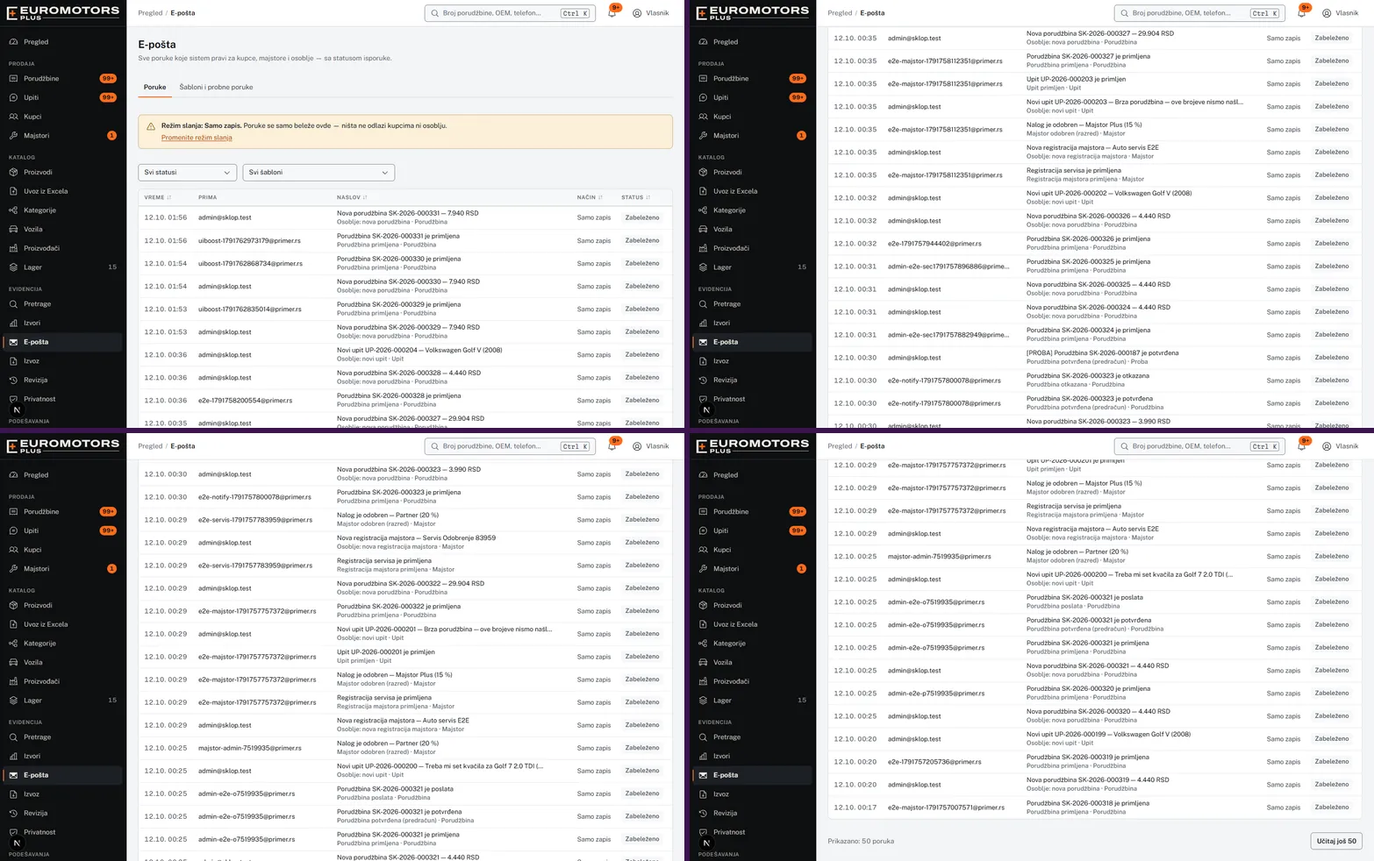
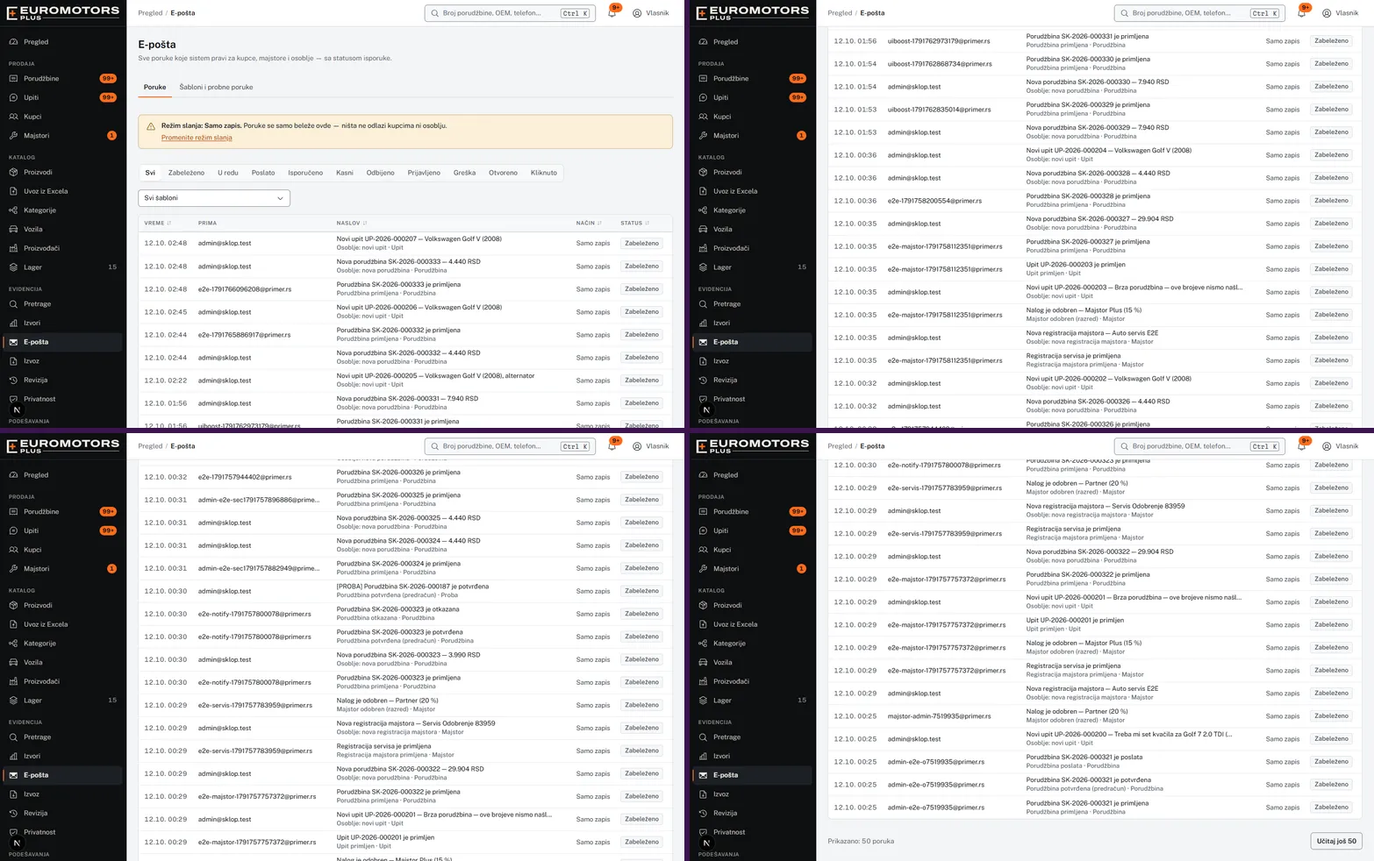
ui(27): admin on the new system; final verification, performance comparison, docs
Admin: graded waiting time, status chip as the in-row control, 48 px rows, totals in list
footers, real 36 px fields, sentence-case chips. Docs: UI-BOOST section 11 and the re-measure,
DESIGN-SYSTEM notes per template, decisions D332-D349, owner items (HUMAN-TODO 17), PROGRESS.
Tools: sheets, checkout-walk, overlays, montage, lh-compare. Screenshots before / after.

diff --git a/docs/design/UI-BOOST.md b/docs/design/UI-BOOST.md
@@ -4,7 +4,7 @@
 > Step 26 (2026-10-11) built **the system**: tokens, shared components, the shell and the site-wide reveal. Step 27 applies it to every page — its work list is §7 and §8.
 > The owner asked for a site that feels much more modern, polished and premium („brutalno“ = outstanding, not the brutalist style), with three fixed requirements: small soft corners on every box, staggered reveals on scroll, a modern look that stays „Rendgen“.
 
-**Contents** — 1 How the critique was run · 2 Scores · 3 Problems · 4 Target · 5 What step 26 changed · 6 Components: done and open · 7 Templates: the work list for step 27 · 8 How to apply the system · 9 Performance: measured, fixed, open · 10 How to check
+**Contents** — 1 How the critique was run · 2 Scores · 3 Problems · 4 Target · 5 What step 26 changed · 6 Components: done and open · 7 Templates: the work list for step 27 · 8 How to apply the system · 9 Performance: measured, fixed, open · 10 How to check · 11 What step 27 built, per template
 
 ---
 
@@ -151,7 +151,7 @@ One engine (`components/TextRevealGlobal.tsx`), one observer, one line.
 
 ## 7. Templates: the work list for step 27, by impact
 
-> **Status after step 27 (2026-10-12): all ten items done** — what was built per template is in §11; decisions D332–D350.
+> **Status after step 27 (2026-10-12): all ten items done** — what was built per template is in §11; decisions D332–D349.
 
 1. **Product (`/deo/[slug]`)** — phone: price, stock and the add-to-cart row above the codes; cap the image height; the buy bar visible until the inline button is on screen. Desktop: a real buy box (`panel-raised`: price, stock, stepper, primary, inquiry), sticky, which also removes the dead column. Gallery and drawing frames 10 px. Reveal: gallery and buy box eager, everything below as blocks and groups.
 2. **Product card and the grids that use it** — render at about 70 % of its frame; phone list card with an 88 px thumbnail, about 170 px tall, price and action on one row; two name lines reserved so rows align. Every grid of category tiles, car models and brands becomes a `RevealGroup`.
@@ -205,6 +205,17 @@ After the fixes the trace shows no pass above 330 elements, and style, layout, p
 
 **Open.** The category page's TBT median is still 298 ms (runs 149–350 ms) against 135 ms in the control (runs 21–153 ms) and a 150 ms budget; home is 194 ms against 112 ms. In the traces what remains is not new work but where it falls: the layout of the streamed chunks (120–190 ms each, as before) lands just after first paint more often than before it. **Step 27, first thing, on an idle machine:** re-run the gate on home, category and product with five runs; if the category is still over 150 ms, compare a trace of it with the control (`git stash`-free: build `0df64d0` in place, as this step did) and look at the first paint — the eager cards and the action bar paint in the first chunk now, which may be what moved FCP ahead of the second layout task.
 
+**Step 27 re-measure (2026-10-12).** The machine was shared again, so the two builds were measured against each other instead of against the clock: the step-26 build served from a side directory on port 3200, the step-27 build on 3100, one Lighthouse run each in turn, five rounds (`scripts/qa/ui-boost/lh-compare.mjs`; mobile, applied throttling, medians):
+
+| Build | Home | Category | Product |
+|---|---|---|---|
+| Step 26 (old) | perf 90 · TBT 194 ms · LCP 2601 ms · JS 303 KB | perf 93 · TBT 161 ms · LCP 2285 ms · JS 295 KB | perf 94 · TBT 40 ms · LCP 2343 ms · JS 284 KB |
+| **Step 27 (new)** | **perf 91 · TBT 179 ms · LCP 2505 ms · JS 311 KB** | **perf 92 · TBT 169 ms · LCP 2229 ms · JS 296 KB** | **perf 96 · TBT 47 ms · LCP 2230 ms · JS 284 KB** |
+
+A second comparison on the final build, with the workers finished and the machine quieter (five rounds again): home 93 / TBT 150 ms old against 93 / 186 ms new; category 96 / TBT 42 ms (runs 21–216) old against 92 / 165 ms (runs 81–436) new; product 96 / 51 ms old against 96 / 53 ms new. One traced run per build of the category page (`lh-trace.mjs`) shows the same work on both — style 256 ms old against 225 ms new, layout 478 against 425 ms, script 1629 against 1535 ms, TBT 144 against 139 ms.
+
+Read: step 27 changed nothing measurable in the work the three templates do (first comparison: differences inside the spread of the runs — category TBT runs 126–538 ms old, 91–225 ms new). In the second comparison the category page's median TBT is higher on the new build while the trace totals are equal: as in step 26, what moves is which layout task falls after first paint. It stays open. The home page carries 8 KB more first-load JS for the four product cards of „Izdvojeno sa stanja“. The category page's TBT is about 160–170 ms on both builds — the 298 ms recorded in step 26 was load on the machine, not the page; it is still above the 150 ms budget and the pre-step-26 control (135 ms) can no longer be rebuilt next to it. Accessibility, best practices and SEO are 100 on all three in every run. LCP reads above the 2.0 s lab budget on this loaded machine for both builds alike.
+
 **The lesson, as a rule** (also in `.claude/rules/architecture.md`): never let the whole document depend on one thing — no `:root:has(…)`, no rule with a universal subject (`> *`, `*`) that hangs on a class of `<html>`, no custom property written on the root after first paint.
 
 ## 10. How to check
@@ -218,3 +229,43 @@ npx playwright test tests/e2e/reveal.spec.ts                          # the reve
 ```
 
 Page set, viewports and sign-ins are in `scripts/qa/ui-boost/kit.mjs`. Screenshots: `docs/qa/screens/step-26/before/` and `after/`; the reveal lab is `/styleguide/otkrivanje`.
+
+Added in step 27:
+
+```
+node scripts/qa/ui-boost/sheets.mjs <outDir> [--only=…] [--max=18] [--widths=390,1440]   # contact sheets of viewport tiles: readable, unlike a scaled full page
+node scripts/qa/ui-boost/checkout-walk.mjs <outDir>                                        # every delivery × payment, thank-you, order status
+node scripts/qa/ui-boost/overlays.mjs <outDir>                                             # search dialog, vehicle picker, cart drawer, mobile menu, offline notice
+node scripts/qa/ui-boost/montage.mjs <out.webp> <files…>                                   # several captures side by side
+MSYS_NO_PATHCONV=1 node scripts/qa/ui-boost/lh-compare.mjs --rounds=5 / /delovi/…          # old build (3200) against new (3100), interleaved
+```
+
+`kit.mjs` now covers 80 pages (every storefront, portal, account and admin template; `firstLink` opens the first record of a storefront list). Screenshots of step 27: `docs/qa/screens/step-27/` — `before/` and `after/` (storefront core), `checkout/`, `overlays/`, and per worker `admin-*`, `portal-*`, `content-*`.
+
+## 11. What step 27 built, per template
+
+Decisions D332–D349. The step ran as one orchestrating session and four workers on disjoint folders (D332).
+
+| Template | What changed | Decision |
+|---|---|---|
+| Home | Phone hero keeps the car on the first screen (field and submit on one row); featured parts in stock; systems as nine panels with chips instead of a 44-link list; tiers in a raised panel; make tiles; every grid and list a reveal group | D334–D336 |
+| Product card and grids | Three rows of one grid; render at full frame height; phone card 88 px thumbnail with price and action on one row (≈ 190 px, was 250); two name lines reserved; category tiles, `/delovi`, system hubs and vehicle hubs as reveal groups | D333 |
+| Category and search | Phone: clamped lead, one sticky toolbar with the count, first product at y ≈ 355 (was 470); rail as a panel with readable group titles; link clouds as chips; left-aligned empty states with the category render; search zero results end in the VIN inquiry plus two ways on; the search dialog says when the vehicle narrows results | D337, D338, D340, D342 |
+| Product | One order for every width; raised sticky buy box; phone first screen shows name, OEM, fitment, price and stock; buy bar docked whenever the inline button is not in view; codes and specifications as panels | D339 |
+| Cart and checkout | Lines in one panel, raised sticky summary, no doubled subtotal on phones, real skeleton geometry; checkout step as one panel, full-width primary on phones; all four delivery × payment combinations walked; order status and thank-you in one panel language | D341 |
+| VIN inquiry | Three panels; VIN help beside the field (under it on phones); live decode readout; status page with the quote as one panel | D346 |
+| Mechanics portal, account, auth | Four tabs + „Još“, sign-out out of the tab row; one panel language; quick-order rows as system rows; two-column account; split auth with a 12 px form panel | D347 |
+| Content, vehicle hubs, 404 / 500 | Reading measure with a sticky aside; two-column contact that hides empty blocks; tile grids without a lone last card; one composition for every status page | D346 |
+| Admin | See D348 | D348 |
+| E-mails | Blocks rebuilt on the new shapes (notice, button, wells, two-line items, ledger, footer), dark-mode safe; all 25 templates inherit | D344 |
+| 3D explorer UI | Panel rows as wells with a labelled button; callout entrance; stage controls with one outline; parts list with renders | D345 |
+
+**Left open after step 27**
+- Category TBT is about 160–170 ms against a 150 ms budget (§9); first-load JS is still above its budget (pre-existing).
+- A product grid can still end in a lone card (9 items in 4 columns); pagination pages of 24 do not.
+- Instant search suggestions are not filtered by the chosen vehicle (D340); the results page is.
+- `cn` joins class lists without merging: a component's own classes cannot be overridden by a caller's conflicting utility (D338). Worth a decision before the next large UI change.
+- Shared components the workers asked for and did not get: `Menu` items as route links with a current state; `Button size="sm"` at 44 px on touch screens by default; a 12 px panel utility (`panel rounded-xl` works today by stylesheet order); a taller drag handle on `Sheet`.
+- Blocks that are eager because they are on the first screen at 1440 px do not scroll-reveal on phones (portal tiles, price-list panels, order status panels).
+- States not seen in a browser: mechanic status screens „pending“ / „rejected“ / „suspended“, `app/error.tsx` and `global-error.tsx` (styled from the code).
+- The text-reveal skill files still describe the old trigger (unchanged from step 26: `.agents/` is off limits).

diff --git a/docs/design/DESIGN-SYSTEM.md b/docs/design/DESIGN-SYSTEM.md
@@ -133,6 +133,8 @@ Geometry, lettering and the reasons are in D301–D306 and `scripts/brand/logo/l
 - `alt="Euromotors Plus by OEM Parts"`, styled (Arial Black 18 px, ink) so it stands in for the logo when images are blocked. The image links home.
 - The file is served by the site, so e-mails show it once `SITE_URL` is the real domain.
 
+Body blocks (step 27, D344 — `lib/email/html.ts`, inherited by all 25 templates): notice = an 8 px tinted box with a 1 px hairline of its tone (no stripe); button 6 px, a padded table cell, full width and 48 px tall on phones; item rows on two lines (name, then maker · code in mono; line total over „2 × 6.490 RSD“); `well()` — an 8 px inset box for payment data; `ledger()` — title, code in mono, state as a word on the right; document numbers (SK-…, UP-…) in mono and never broken; footer on a tinted ground in two stacking columns. One dark rule list serves `prefers-color-scheme` and Outlook.com; the logo band stays white. All 33 text / ground pairs are ≥ 4.5 : 1.
+
 ### 2.7 OG image frame (1200 × 630)
 
 ```
@@ -823,6 +825,7 @@ Inline (default) or chip (`*-subtle` bg, 24 px, radius 4) — icon + word + opti
 ### 9.10 Part panel (3D) — drawer / sheet
 Desktop: right drawer 440 px (1280+: 480 px), no scrim (the car stays interactive), level 4 shadow, full height under the header. Mobile: bottom sheet (peek 42 % / full 92 %).
 Anatomy: header (part glyph 24 + `display-m` category name + count „48 artikala“ + close `X` 44) → vehicle row (selected vehicle chip or „Izaberite vozilo za tačno poklapanje“) → list of compact product rows (thumb 56, maker, name 1 line, OEM `code`, stock icon + word, price, add icon button 44) → footer (sticky): „Svi delovi: Kočioni diskovi (48) →“ (link, full width) + „Pošaljite upit“ (secondary).
+As built in step 27 (D345): rows are wells (`panel-inset`) with the storefront thumbnail, maker · quality, name, mono OEM, stock, fitment, price and a labelled 44 px `quiet` button („U korpu“ / „Poruči“; „Pošaljite upit“ when the part cannot be ordered) — the icon-only button is gone; a 25 rem container query puts price over button in a third column in the wide drawer and under the facts on phones; the header counts „9 artikala · 7 na stanju“; the vehicle chip is a filled field-like chip. The callout box has the overlay shadow and a GSAP entrance (dot lands, leader draws, box settles 6 px) on inner elements, while the canvas positions the outer ones.
 States: loading (6 skeleton rows), empty („Za ovu kategoriju trenutno nemamo delove na stanju.“ + inquiry CTA prefilled with the category), error (retry), vehicle mismatch notice (`warning` row „3 artikla ne odgovaraju izabranom vozilu — prikazani su na kraju“). Esc/close returns focus to the part list trigger or the canvas wrapper and the camera returns.
 
 ### 9.11 Cart drawer
@@ -840,8 +843,10 @@ Radix Dialog: 480/640 px, `surface-3`, radius 12, level 4 (bottom sheets: 14 px 
 ### 9.15 Admin data table (paper)
 Toolbar: segmented status filter (tabs with counts, `nowrap`, horizontally scrollable on narrow widths), search (260 px, `/` shortcut), filter popover, column visibility, density toggle, export („Izvoz za Excel“ — CSV with BOM and `;`). Table: header 36 px `surface-2` caps labels 11 px, sticky; rows 48 px (compact 36), 1 px `line-faint` dividers, no zebra; hover `surface-2`; selected = neutral `selected #EEF1F4` + checked checkbox (never the accent tint, which marks „Nova“); numbers right-aligned tabular; order numbers `code` 12.5 px **400** with the prefix `SK-2026-` in `ink-3` and the sequence in `ink-1` (round 1: the number outweighed the customer); dates compact „29.09. 11:42“ (year shown when it is not the current year); „Plaćanje · dostava“ as one two-line column; status chips (§3.6) with icon and compact labels („Za preuzimanje“); a 32 px row-actions button (`DotsThree`, „Radnje za SK-2026-000187“: Štampaj predračun, Otpremnica, Otvori); first column (checkbox + number) sticky when scrolling horizontally. Cells use 8 px side padding; „Izvor“ shows at ≥ 1440 px (the order detail always shows attribution); the row-actions column is sticky on the right; between 1024 and 1365 px the sidebar collapses to a 64 px icon rail (labels visually hidden, counts as small badges). With these rules the orders list fits 1280, 1366 and 1440 px without horizontal scrolling (measured: 0 px overflow in `/lab/koncept`, round 4); below 1024 the table scrolls inside its wrapper and the workspace column is `minmax(0, 1fr)` so nothing is clipped. Dark sidebar keeps the night focus ring (`accent`, 6.74:1); the paper workspace uses `accent-text`. Keyboard: ↑/↓ move row focus, Enter opens, Space selects, Shift+click range. Bulk bar replaces the toolbar when rows are selected („3 izabrane · Potvrdi · Štampaj otpremnice · Poništi izbor“). Footer: „1–25 od 187“ + pagination. States: loading (skeleton rows keep column widths), empty per filter („Nema novih porudžbina.“), error banner with retry, stale data notice when a live update arrives while editing. Width budget (D271): the table is `w-full` with auto layout inside an `@container`, so wrapping cells fold before anything scrolls; each list keeps a budget — caps on long cells with the full value in `title`, breakpoint defaults for optional columns that the column chooser can override (e.g. „Proizvođač“ from 1536 px), container-query folding (stock badge over quantity under 72 rem); edge-scroll hints sit at the seam of the sticky columns. Selection (D272): toolbar and bulk bar share one 48 px slot, so selecting never moves rows; a row click within 300 ms of a checkbox change does not open the record; a `role="status"` region reads „Izabrano: N“ / „Izbor poništen“.
 
+**Step 27 (D348).** Rows are 48 px on every list at 1280 and 1440 px: flags are 20 px `dense` chips, the stock badge sits beside the quantity, long payment cells truncate with a tooltip. Chips are sentence case, 13 px (`Chip` in `components/admin/ui.tsx`); neutral chips carry a hairline edge on paper. On orders the status chip is the in-row control: it opens the menu of legal next steps, each confirmed (cancel asks for the reason; „Označi kao poslato…“ opens the order for the tracking number); the same steps stay in the row menu and the chip is not a tab stop. Footer: „Prikazano: 50 od 246 porudžbina“ where a total exists (`LoadMoreFooter`). Filter and inline fields are `CompactInput` (36 px). Status filters are the segmented track on every list. Waiting time (dashboard queue, inquiries) has four grades — u roku · rok ističe · kasni · dugo kasni (3× the target) — shown by an icon and a word; the time itself is neutral ink (`components/admin/waiting.tsx`).
+
 ### 9.16 Tabs
-Underline tabs (storefront product page: Opis, Kompatibilnost, Brojevi, Isporuka): 44 px, 15 px 500 `ink-2`, active `ink-1` + 2 px accent underline; overflow scrolls horizontally with edge fade. Segmented tabs (admin filters) as §9.15. Radix Tabs, arrow-key navigation, `aria-controls`.
+Underline tabs (storefront product page: Opis, Kompatibilnost, Brojevi, Isporuka): 44 px, 15 px 500 `ink-2`, active `ink-1` + 2 px accent underline; overflow scrolls horizontally with edge fade. Section navigation of the portal and the account (step 27, D347, `components/account/SectionNav.tsx`): four links for the daily tasks plus a „Još“ menu for the rest and for „Odjavi se“; the fade shows only on the side that can scroll; the page H1 names the open view. Segmented tabs (admin filters) as §9.15. Radix Tabs, arrow-key navigation, `aria-controls`.
 
 ### 9.17 Pagination
 Storefront: „Prethodna“ / „Sledeća“ buttons + page numbers (1 … 4 5 **6** 7 … 12), current page `accent` underline, 44 px targets; `?strana=n` links (crawlable). Mobile: prev/next + „Strana 6 od 12“. Admin: compact with page size select (25/50/100).
@@ -967,6 +972,8 @@ Step 27 (D341): cart and checkout are capped at 76 rem. Cart: every line in one 
  Aside (4 cols): „Gde je broj šasije?“ — drawing of the windscreen corner + registration document field E, no photos
 ```
 
+As built in step 27 (D346): three panels — Vozilo, Šta vam treba?, Kontakt — each a reveal block; „Gde je broj šasije?“ is the aside beside the Vozilo group from 1024 px and a disclosure directly under the VIN field on phones; a live „Prepoznato iz broja šasije“ readout; the dropzone is the only dashed border; the aside adds „Šta dalje“ (three steps). The thank-you page and the status page are records (sans H1, status chip, the quote as one panel with one primary).
+
 ### 10.8 `/za-majstore`
 ```
  Hero split: ZA MAJSTORE (display-xl) + lead + [Registrujte servis] │ price comparison card: MP vs „Vaša cena“ per tier
@@ -982,6 +989,8 @@ Step 27 (D341): cart and checkout are capped at 76 rem. Cart: every line in one 
    [Dodaj sve u korpu]
  Tiles as links (not metric cards): Porudžbine (last 5 rows) · Omiljeno · Vozila mušterija (VIN, tablice) · Cenovnik (XLSX)
 ```
+
+As built in step 27 (D347): a sticky quick-order panel on the left; on the right the terms panel (the level in orange, the rabat as a numeral, credit as facts), the last orders as rows with a `quiet` „Poruči ponovo“, then link tiles. The format reference of the quick order is behind „Kako se upisuje“; parsed rows are system rows in one panel (line number, mono code, one status chip, article with stock, price, stepper, labelled „Ukloni“).
 
 ### 10.10 Admin shell and dashboard `/admin`
 ```

diff --git a/docs/DECISIONS.md b/docs/DECISIONS.md
@@ -436,3 +436,5 @@ Guest cart token in localStorage (strictly necessary) · vehicle filter carried 
 | 2026-10-12 | 27 | D345 — **3D explorer UI: panel rows are wells with a labelled button; the callout has an entrance (worker: 3D UI).** `PartPanel`: rows are `panel-inset` with the storefront thumbnail, maker · quality, name, mono OEM, stock, fitment, price and a labelled 44 px `quiet` button (was icon-only); layout by a 25 rem container query; skeleton rows measure the same as loaded rows; the header counts „9 artikala · 7 na stanju“; empty and error states end in the inquiry. `HeroCallout`: overlay shadow, GSAP entrance (dot, leader, box settles 6 px) on inner elements while the canvas positions outer ones. `StageStrip`: „Rasklopi“ is the one outline, „Lista delova“ is `quiet`. `PartsListDialog`: rows with the category render and sticky system headings. Framing, poster and canvas code untouched. | Brief item 11. Wells because `quiet` has the fill of the surface-3 drawer; outer / inner layers because a tween on the element the canvas moves would fight over `transform`; no row stagger because the axe test scans as soon as the first row shows. | Reusing the storefront `AddToCartButton` in the panel: different toast, live region and test id. |
 | 2026-10-12 | 27 | D346 — **Inquiry and content pages (worker: content).** `/upit`: three panels (Vozilo, Šta vam treba?, Kontakt); the VIN help is rendered twice — the aside from 1024 px and a disclosure under the field on phones; a live „Prepoznato iz broja šasije“ readout; the dropzone is the only dashed border. Inquiry status: the quote is one panel with one primary; an inquiry closed without a quote says so. Content pages render through `ContentBody` (68ch measure, lead, tables as fading panels) with a sticky aside (next step, document list); places get display caps, documents a sans H1. `/kontakt` is two columns that hide what settings leave empty. Vehicle hubs are tile grids without a lone last card. 404 / 403 / 401 / error / unsubscribe share one composition (frame, mono code, sentence, next steps as rows). | UI-BOOST §7 items 6, 9, 10. The status boundaries are kept lean because Next serialises them into every page's payload. | One VIN help node moved by CSS: it cannot be both beside the panel and under the field. |
 | 2026-10-12 | 27 | D347 — **Portal, account and auth (worker: portal).** Portal and account chrome: four tabs as links plus a „Još“ menu, an edge fade on the side that scrolls, and „Odjavi se“ out of the tab row (in „Još“ and on the profile pages). The H1 names the open view („Brza porudžbina“, „Porudžbina SK-…“) because half the views sit behind „Još“. `/majstor`: sticky quick-order panel, the terms panel (the level in orange, rabat as a numeral, credit as facts), last orders as rows with a `quiet` „Poruči ponovo“, link tiles. Quick order: the dashed explainer is behind „Kako se upisuje“; parsed rows are system rows in one panel, sized by the panel's own width (container queries). Account: full-width two-column pages (a 960 px cap was tried and looked half empty at 1440 px). Auth: a split with the form in a 12 px panel, a „Prikaži“ / „Sakrij“ password toggle (a word, not an eye) and a Caps Lock note. `/za-majstore`: split hero with the tier comparison raised, numbered approval steps. | UI-BOOST §3 no. 9 and 11, §7.7. Primary tabs are the daily tasks; the menu items navigate with `router.push` because the shared `Menu` renders `href` items as plain anchors. | Keeping eight tabs with a fade: the critique's cognitive-load finding (8 + 1 choices). Distinct accessible names use `aria-label`, not hidden text copies, so strict text locators in the specs keep one match. |
+| 2026-10-12 | 27 | D348 — **Admin (worker: admin): graded waiting time, the status chip as the in-row control, one row height, real 36 px fields.** Dashboard: waiting time in four grades — „u roku“, „rok ističe“, „kasni“, „dugo kasni“ (from 3× the target) — carried by an icon and a word while the time stays neutral ink, with a legend line of counts; KPI cells link to their filtered lists. Lists: on orders the status chip opens the menu of legal next steps (each confirmed; the same steps stay in „…“; it is not a tab stop), products gained Aktiviraj / Deaktiviraj; every list row is 48 px at 1280 and 1440 px with flags as 20 px chips; the footer reads „Prikazano: 50 od 246 porudžbina“ where the backend returns a total. Chips are sentence case, 13 px. `CompactInput` is a real 36 px field: about 40 `<Input className="h-9">` had measured 44 px because `cn` joins classes and the input's own height won. Nine hand-written link-button strings became `Button asChild`. Fixed on the way: `ContactActions` built Viber / WhatsApp links with `/s/g` and `/D/g` (lost backslashes), category move buttons were hover-only on touch, the drawer close button sat in the flow. No entrance was written; admin blocks stay on the lite fade and are not eager. | UI-BOOST §3 no. 12, §6, §7.8: ten identical red timers, the status change hidden behind „…“, row heights that jumped with flags, „Prikazano: 50“ without a total, chips that shouted. | An inline „Potvrdi“ button per row: broke the width budget at 1366 px. Three grades only: a queue that is all late was ten identical marks again. Totals for products, customers, stock movements, audit, e-mails and notifications need new Convex counts — left open. |
+| 2026-10-12 | 27 | D349 — **Performance is compared build against build, interleaved, not against yesterday's numbers.** The step-26 build was kept, served from a side directory on port 3200, and measured in turn with the step-27 build on 3100 (`scripts/qa/ui-boost/lh-compare.mjs`, five rounds, twice). Home 91 / 93 (old 90 / 93), category 92 / 92 (old 93 / 96), product 96 / 96 (old 94 / 96); category TBT 169 and 165 ms against 161 and 42 ms for the old build, with runs from 81 to 436 ms. One traced run per build shows the same work (style 225 against 256 ms, layout 425 against 478 ms, script 1535 against 1629 ms): what differs between runs is which layout task falls after first paint. | The PC is shared with another project's pipeline; step 26 recorded a category TBT of 298 ms that was load, and a number taken at another hour cannot be compared. | Waiting for an idle machine: not available in an unattended run. The category page stays listed as open against its 150 ms budget. |

diff --git a/docs/PROGRESS.md b/docs/PROGRESS.md
@@ -241,3 +241,10 @@
 - Performance (Lighthouse mobile, applied throttling, medians; control = the pre-step commit built on the same machine): home 92 / TBT 194 ms (control 95 / 112), category 91 / TBT 298 ms (control 96 / 135), product 94 / TBT 108 ms (control 96 / 23); accessibility, best practices and SEO 100; CLS ≤ 0.001. Four causes of full-document style passes were found with a trace and removed (D328–D330); details in UI-BOOST §9. Measured before the last change (D331, admin-only CSS).
 - Found and fixed on the way: 87 px horizontal overflow in the admin SEO fields at 390 px; the admin save bar moved with its rising panel, which made `admin.spec.ts` › save settings fail one run in three (D331: the admin tone no longer moves anything).
 - Remains: **category TBT is above its 150 ms budget and above the control** — first task of step 27, on an idle machine (UI-BOOST §9); page templates and reveal marks per page (UI-BOOST §7–§8); the text-reveal skill files (`.claude/skills/text-reveal/SKILL.md` and the copy under `.agents/`) still describe the old trigger; owner items in `docs/HUMAN-TODO.md` §16. A manual e2e build needs `NEXT_PUBLIC_TEST_HOOKS=1` and `REVALIDATE_SECRET` (as `playwright.config.ts` sets them), otherwise the 3D hero, CSP and consent specs fail.
+
+## 2026-10-12 — Step 27 · UI/UX boost, part 2: every page
+- Done: the step-26 system applied to every template (per template: `docs/design/UI-BOOST.md` §11; decisions D332–D349). Storefront core by the orchestrating session — home (car on the phone's first screen, featured parts in stock, systems as panels with chips, tier card, make tiles), product card anatomy and every grid as a reveal group, category (one sticky phone toolbar, clamped lead, rail as a panel, chips, left-aligned empty state), product (raised sticky buy box, one order for every width, buy bar whenever the inline button is out of view), search (zero results end in the VIN inquiry; the dialog says when the vehicle narrows results), cart and checkout (one panel language, no doubled subtotal, all four delivery × payment combinations walked, thank-you and status). Four workers on disjoint folders (D332): admin (graded waiting time, status chip as the in-row control, 48 px rows, „50 od N“, real 36 px fields), e-mails and 3D explorer UI (blocks rebuilt and dark-mode safe; panel rows as wells with a labelled button, callout entrance), portal + account + auth (four tabs + „Još“, one panel language, split auth), inquiry + content + status pages (three panels, VIN help beside the field, reading measure with an aside, one composition for 404 / 403 / 401 / error).
+- Verified on the final code: `npx tsc --noEmit` exit 0 · `npm run lint` exit 0 (0 errors; 13 warnings, all in git-ignored scratch scripts under `.playwright/`) · `npm test` 71 files passed + 1 skipped, 1,306 tests passed + 4 skipped · `npm run build` exit 0 (with `NEXT_PUBLIC_TEST_HOOKS=1 REVALIDATE_SECRET=e2e-revalidate-secret`) · `npx playwright test` on that build 134 passed, 32 skipped by design, 0 failed (12.3 min) · reveal contract on the production build, 77 pages × 2 widths (`sheets.mjs`): 151 of 154 lines `hidden=0 pending=0 words=0 overflowX=0 errors=0`; the other three are the 404 page's own 404 response (2) and one request error on Administracija → Izvori at 390 px (below) · corner audit on the production build: 0 sharp boxes on 154 captures, radii in use 4 / 6 / 8 / 10 / 12 / 14 px and pills · Convex pushed once (`npx convex dev --once`) for the e-mail markup.
+- Performance (Lighthouse mobile, applied throttling, old build on 3200 against new on 3100, interleaved, five rounds, twice — D349): home 91 and 93 (old 90 and 93), category 92 and 92 (old 93 and 96), product 96 and 96 (old 94 and 96); accessibility, best practices and SEO 100; first-load JS 311 / 296 / 284 KB (old 303 / 295 / 284). Traced work on the category page is the same on both builds.
+- Found and fixed on the way: lost backslashes in three regexes (`/s+/` in the inquiry and mechanic registration lead data, `/s/g` and `/D/g` in the admin's Viber / WhatsApp links); the first paragraph of `/kontakt` vanished while no phone is set (D343); about 40 admin inputs that were meant to be 36 px measured 44 px (D348); horizontal overflow on admin searches (204 px) and customer (8 px) at 390 px.
+- Remains: category TBT against its 150 ms budget (UI-BOOST §9); a product grid can end in a lone card; instant suggestions are not filtered by vehicle (D340); `cn` does not merge classes (D338) and four shared-component requests from the workers (UI-BOOST §11); totals for six admin lists need Convex counts (D348); mechanic status screens „pending / rejected / suspended“ and the two error boundaries were styled from the code, not seen in a browser; on Administracija → Izvori a link built from a test campaign name several thousand characters long answers 431 (test data in the development database, the link predates this step); owner items in `docs/HUMAN-TODO.md` §17.

diff --git a/docs/progress/27.md b/docs/progress/27.md
@@ -2,41 +2,50 @@
 
 Started 2026-10-12. One orchestrating session (storefront core) plus four parallel workers on
 disjoint folders (admin · e-mails + 3D explorer UI · portal + account + auth · inquiry + content
-+ error pages). The workers do not commit and do not run e2e; the orchestrator does both.
+
+- error pages). The workers do not commit and do not run e2e; the orchestrator does both.
 
 ## Setup
+
 - [x] Sources read (UI-BOOST, progress/26, 26-result, DESIGN-SYSTEM §5.3 / §5.5 / §8.8 / §9 / §10, reveal primitive + constant + spec)
 - [x] Skills invoked: impeccable, design-taste-frontend, ui-ux-pro-max, design-dna, motion-design, text-reveal, gsap-scrolltrigger, gsap-react, gsap-performance, threejs-interaction
 - [x] Baseline production build kept for the Lighthouse comparison: `.playwright/next-base-27` (git-ignored copy of `.next` at the step-26 state)
-- [x] Dev server on port 3000, started detached (PID in `.playwright/dev-27.pid`) — stop it at the end
+- [x] Dev server on port 3000, started detached — stopped at the end, with the production (3100) and baseline (3200) servers; the baseline directory is removed
 - [x] Tools: `scripts/qa/ui-boost/sheets.mjs` (readable contact sheets), `checkout-walk.mjs` (every delivery × payment), `montage.mjs`; kit page set extended
 
 ## Templates
+
 - [x] 1 Home — phone hero keeps the car on the first screen (search and submit on one row), featured parts in stock, systems as panels with chips, tier card, brand tiles, reveal groups
 - [x] 2 Catalog / category — product card anatomy, sticky one-line phone toolbar, clamped lead, rail as a panel, chips, empty state, skeleton geometry; `/delovi`, system hub, landings
 - [x] 3 Product — raised sticky buy box, phone order, buy bar rule, codes and specs as panels
 - [x] 4 Search — zero results: inquiry + help panel; chips
-- [ ] 4 Search — suggestions dialog checked at both widths
+- [x] 4 Search — suggestions dialog checked at both widths (`overlays.mjs`); scope line when a vehicle is chosen
 - [x] 5 Cart and checkout — panel lines, no duplicate subtotal, steps as panels, all four combinations walked, thank-you and status
-- [ ] 6 VIN inquiry (worker: content)
-- [ ] 7 Mechanics portal (worker: portal)
-- [ ] 8 Account, auth, content, 404/500, offline (workers: portal, content; offline notice = orchestrator)
-- [ ] 9 Admin (worker: admin)
-- [ ] 10 E-mails (worker: e-mails + 3D)
-- [ ] 11 3D explorer UI (worker: e-mails + 3D)
+- [x] 6 VIN inquiry (worker: content)
+- [x] 7 Mechanics portal (worker: portal)
+- [x] 8 Account, auth, content, 404/500, offline (workers: portal, content; offline notice = orchestrator)
+- [x] 9 Admin (worker: admin)
+- [x] 10 E-mails (worker: e-mails + 3D)
+- [x] 11 3D explorer UI (worker: e-mails + 3D)
 
 ## Verify (final code)
-- [ ] `npx tsc --noEmit` · `npm run lint` · `npm test`
-- [ ] `npm run build` with `NEXT_PUBLIC_TEST_HOOKS=1 REVALIDATE_SECRET=e2e-revalidate-secret`
-- [ ] full Playwright e2e on the production build (port 3100)
-- [ ] corners audit · sheets for every page (hidden / pending / overflow / console)
-- [ ] Lighthouse home / category / product against the kept baseline build
+
+- [x] `npx tsc --noEmit` · `npm run lint` · `npm test`
+- [x] `npm run build` with `NEXT_PUBLIC_TEST_HOOKS=1 REVALIDATE_SECRET=e2e-revalidate-secret`
+- [x] full Playwright e2e on the production build (port 3100)
+- [x] corners audit · sheets for every page (hidden / pending / overflow / console)
+- [x] Lighthouse home / category / product against the kept baseline build
 
 ## Docs
-- [ ] DECISIONS (D332…) · UI-BOOST §7 status · DESIGN-SYSTEM (card, chip-link, buy box, buy bar) · PROGRESS · HUMAN-TODO
+
+- [x] DECISIONS (D332…) · UI-BOOST §7 status · DESIGN-SYSTEM (card, chip-link, buy box, buy bar) · PROGRESS · HUMAN-TODO
 
 ## Notes
+
 - Heredocs break on apostrophes: edit scripts live in `.playwright/tmp/*.py` (helper `edit.py` handles CRLF files).
 - A full-page Playwright capture resizes the viewport: an element that is `hidden lg:block` replays its eager entrance into the picture (not a bug of the page).
 - Never `cd` in a compound command without returning — the shell keeps the directory.
 - Pipe `git add` / `git commit` output through `tail` (CRLF warnings flood otherwise).
+- A module that does not compile makes the Turbopack dev server answer 500 on every route: with several workers on one dev server, run `npx tsc --noEmit` right after every scripted edit.
+- `cn` joins class lists, it does not merge: a caller's utility cannot override a component's own (`Input h-9`, `EmptyState py-0`). Use a variant (`max-sm:`), a prop, or change the component.
+- Results and numbers of the final run: the entry of 2026-10-12 in `docs/PROGRESS.md`.

diff --git a/docs/HUMAN-TODO.md b/docs/HUMAN-TODO.md
@@ -212,3 +212,16 @@ U koraku 26 urađen je sistem: zaobljeni uglovi na svim kutijama, pojavljivanje 
 - [ ] **[P1] Pogledajte uglove.** Čipovi 4, dugmad i polja 6, kartice 8, slike 10, dijalozi 12, donji paneli 14 piksela. Ako želite mekše ili oštrije, menja se šest brojeva na jednom mestu (`app/globals.css`).
 - [ ] **[P2] Donja traka na telefonu.** Pretraga, Vozilo, Korpa, Kontakt. „Kontakt“ otvara spisak kanala iz Podešavanja → Firma (telefon, Viber, WhatsApp, e-pošta); dok ti podaci nisu upisani, na tom mestu stoji „Upit“. Upišite kontakt podatke da bi traka nudila poziv i Viber.
 - [ ] **[P2] Prelaz između strana i zaglavlje koje se skuplja** rade u pregledačima Chrome, Edge i Safari. U Firefoxu se strana menja bez prelaza, a zaglavlje je odmah u skupljenom obliku. To je predviđeno ponašanje, ne greška.
+
+## 17. Novi izgled na svim stranama (korak 27)
+
+U koraku 27 novi sistem je primenjen na svaku stranu: početnu, katalog, stranu artikla, pretragu, korpu i porudžbinu, upit, portal za majstore, nalog, prijavu, tekstualne strane, administraciju, e-poruke i 3D prikaz. Slike „pre“ i „posle“ su u `docs/qa/screens/step-27/`, pregled po stranama u `docs/design/UI-BOOST.md` §11.
+
+- [ ] **[P1] Pogledajte početnu na telefonu.** Auto se sada vidi na prvom ekranu, a polje za pretragu i dugme su u jednom redu. Nova sekcija „Izdvojeno sa stanja“ prikazuje po jedan najtraženiji deo na stanju iz kategorija kočione pločice, kočioni diskovi, amortizeri i filteri. Ako želite druge kategorije, menja se jedan spisak (`FEATURED_PART_CATEGORIES` u `app/(shop)/page.tsx`).
+- [ ] **[P1] Pogledajte stranu artikla.** Cena, stanje i „Dodaj u korpu“ su u jednoj kutiji koja na računaru prati skrolovanje; na telefonu traka sa cenom i dugmetom stoji na dnu dok se glavno dugme ne vidi.
+- [ ] **[P1] Pošaljite sebi probne e-poruke.** Administracija → E-pošta → Šabloni → probno slanje. Pogledajte potvrdu porudžbine i ponudu u Gmailu i Outlooku, na telefonu i u tamnom režimu. Izgled poruka je nov (obaveštenja, dugme, stavke u dva reda, podaci za uplatu u kutiji).
+- [ ] **[P2] Pročitajte nove tekstove.** Pretraga bez rezultata („Šta još možete“), prijava i registracija (tekst pored obrasca), portal (objašnjenje oznaka kod brze porudžbine, „Odjava“), završni poziv na strani `/za-majstore`, koraci „Šta dalje“ kod upita. Sve je pisano u istom tonu; ispravite šta vam ne odgovara.
+- [ ] **[P2] Upišite kontakt podatke.** Dok u Podešavanja → Firma nema telefona, Vibera i adrese, strana `/kontakt` prikazuje samo upit i radno vreme, a u donjoj traci na telefonu umesto „Kontakt“ stoji „Upit“.
+- [ ] **[P2] Administracija, spisak porudžbina.** Status se sada menja iz reda: klik na oznaku statusa otvara dozvoljene sledeće korake (svaki se potvrđuje). Vreme čekanja ima četiri stepena: u roku, rok ističe, kasni, dugo kasni. Recite ako želite druge granice.
+- [ ] **[P3] Portal za majstore.** U traci su četiri kartice (Pregled, Brza porudžbina, Porudžbine, Cenovnik), ostalo je pod „Još“. Ako majstori najčešće traže nešto drugo, redosled se menja na jednom mestu.
+- [ ] **[P3] Probni podaci u razvojnoj bazi.** Testovi su ostavili kampanje sa veoma dugim nazivima; na strani Administracija → Izvori link ka takvoj kampanji ne radi (adresa je preduga). U pravoj bazi takvih naziva nema; razvojnu bazu očistite pre pokazivanja.
